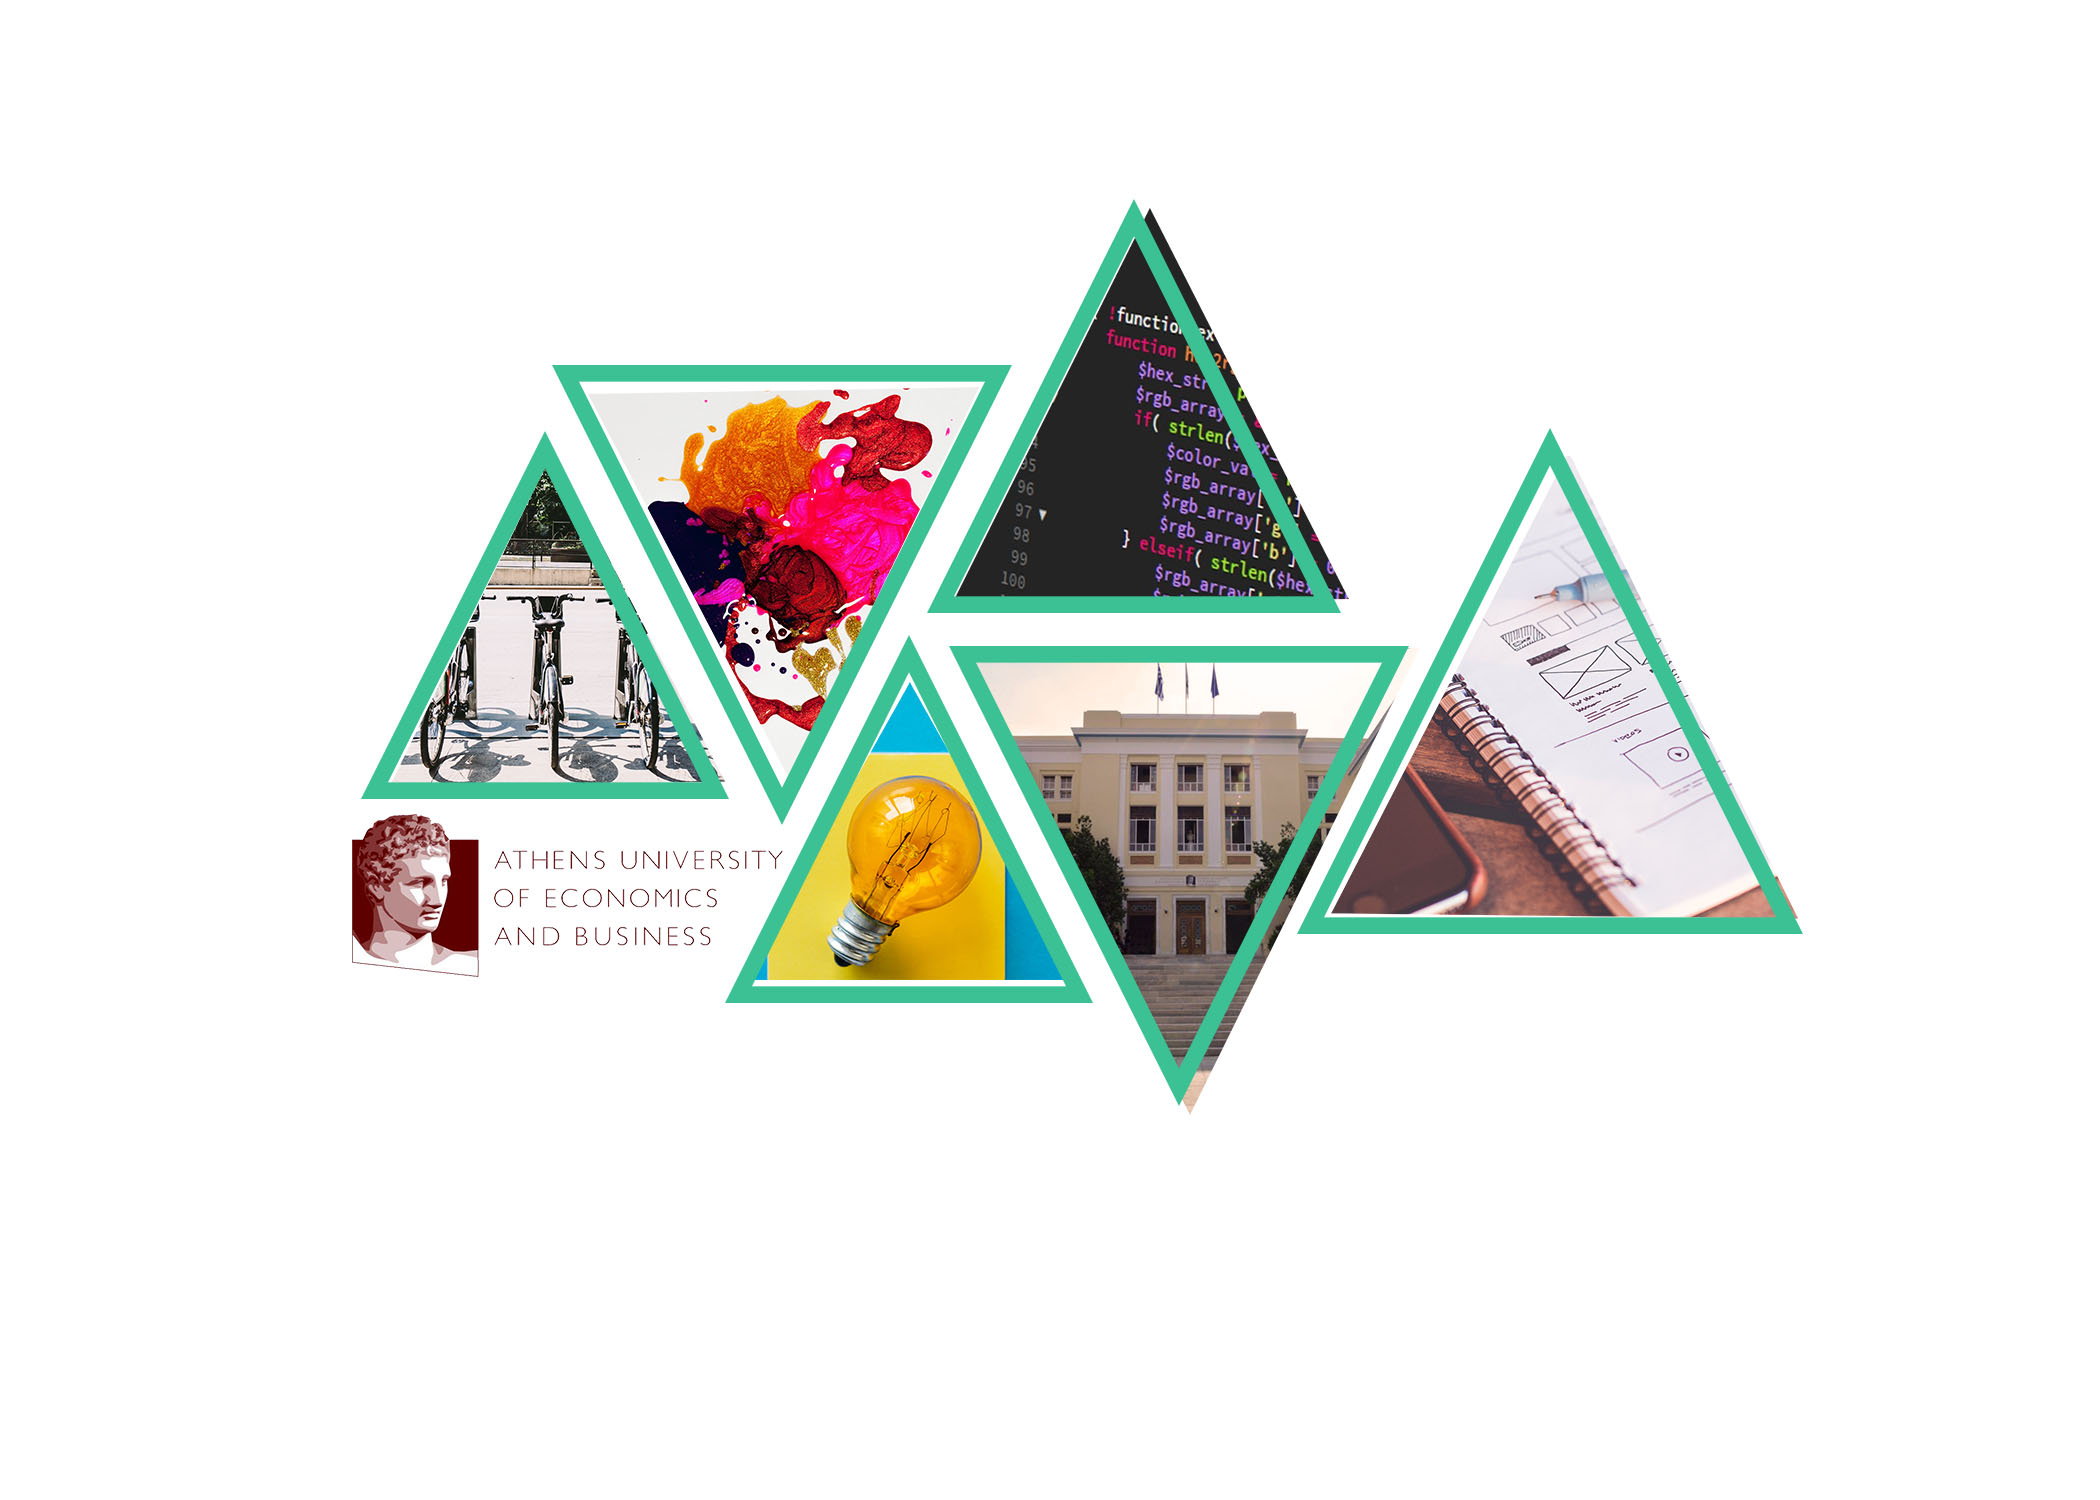
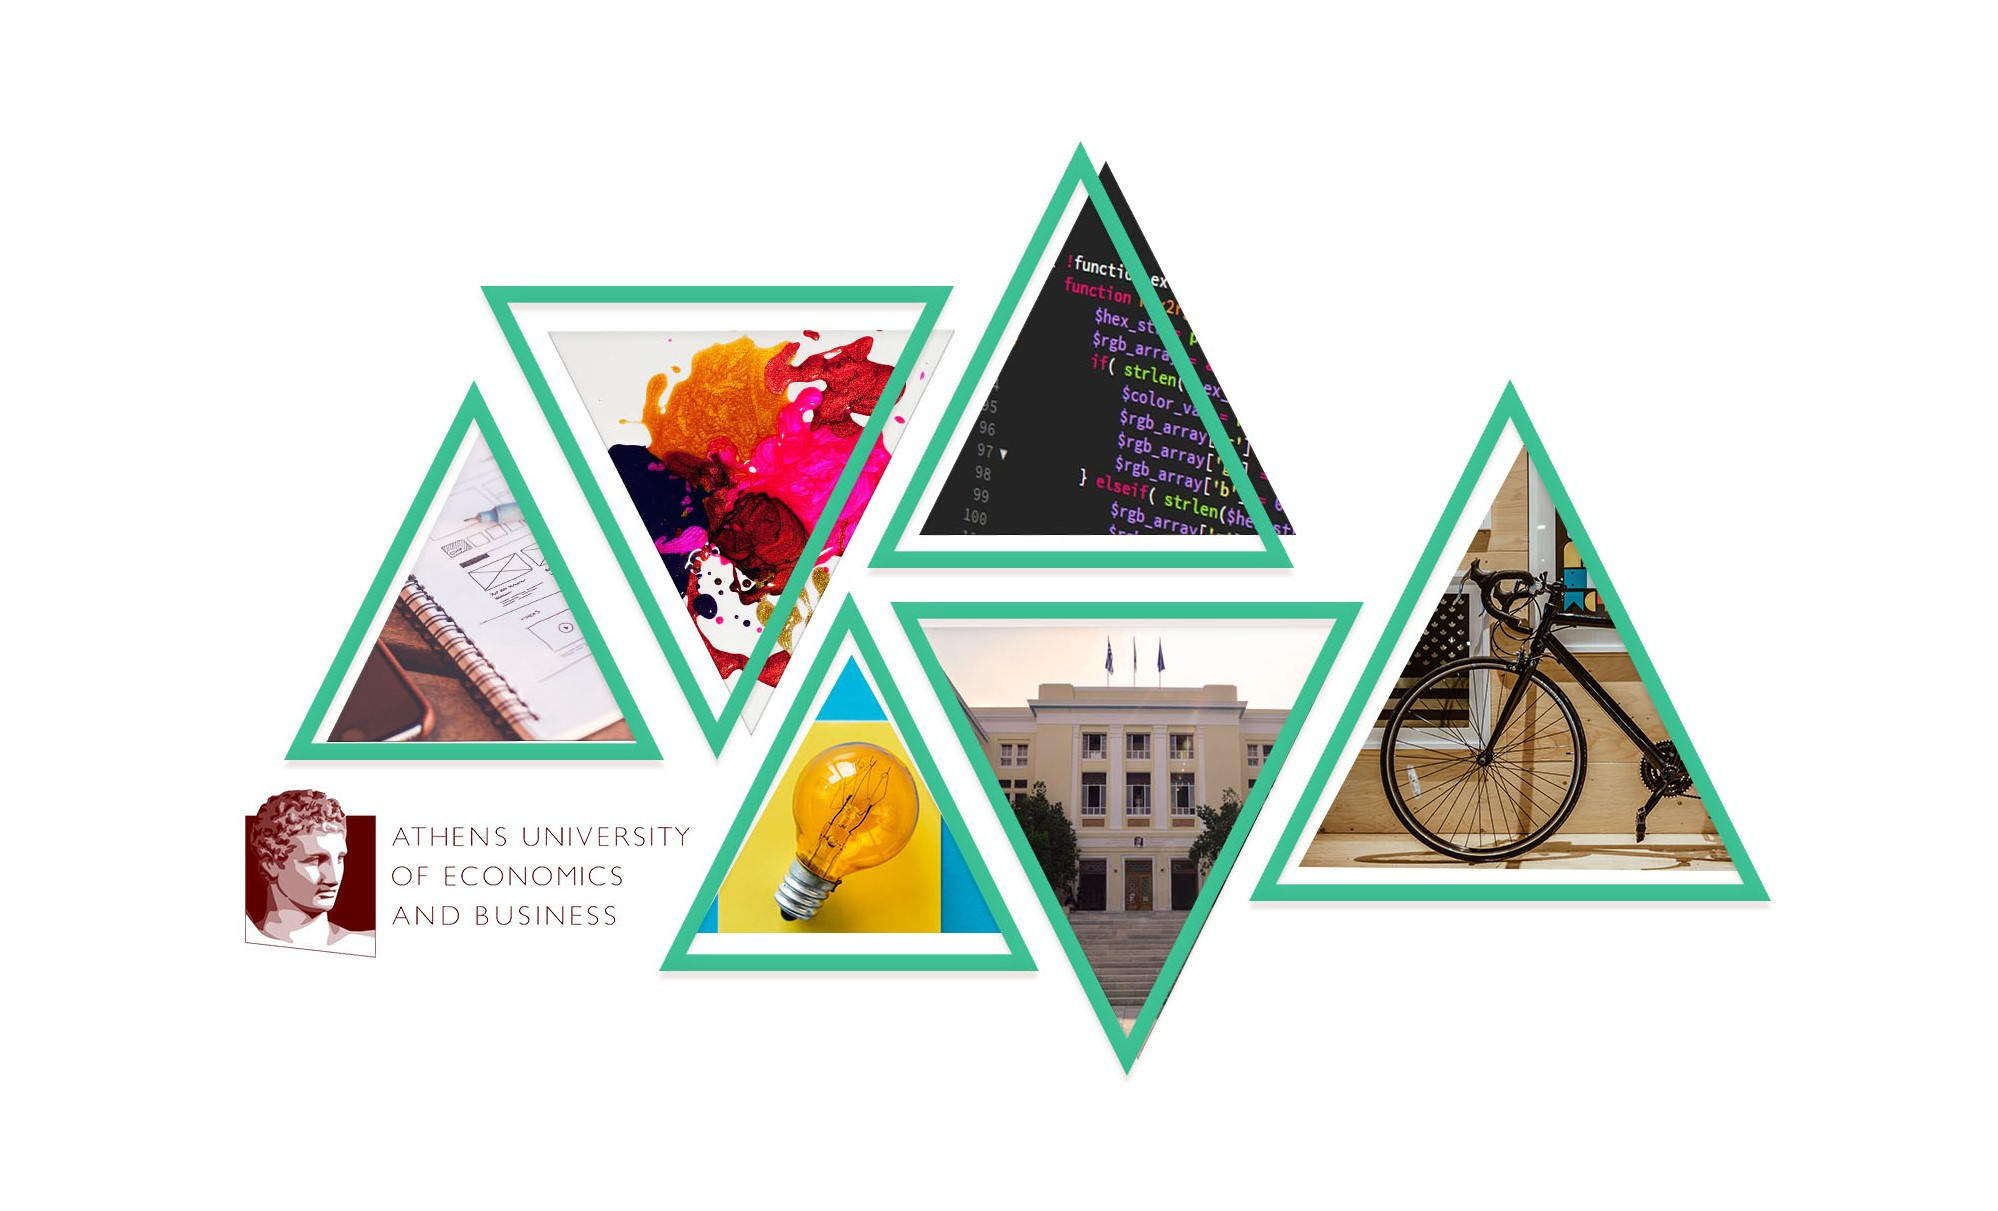
Second image for mobile

Changed region(s): [[0.1241, 0.1222, 0.8999, 0.886]]

diff --git a/index.html b/index.html
@@ -19,6 +19,25 @@
   <!-- CSS Just for demo purpose, don't include it in your project -->
   <link href="assets/demo/demo.css" rel="stylesheet" />
   <link href="https://fonts.googleapis.com/css?family=Comfortaa|Source+Sans+Pro" rel="stylesheet">
+  <style>
+  .bg {
+  /* The image used */
+  background-image: url('assets/img/background2.jpg');
+
+  /* Full height */
+  height: 100%;
+
+  /* Center and scale the image nicely */
+  background-position: center;
+  background-repeat: no-repeat;
+  background-size: contain;
+}
+@media screen and (max-width: 1024px) {
+  .bg {
+    background-image: url('assets/img/triangles_vertical.jpg');
+  }
+}
+  </style>
 </head>
 
 <body class="landing-page presentation-page sidebar-collapse">
@@ -50,7 +69,7 @@
     </div>
   </nav>
   <!-- End Navbar -->
-  <div class="page-header" data-parallax="true" style="background-image: url('assets/img/background3.jpg');">
+  <div class="bg page-header" data-parallax="true" style="">
     <div class="filter"></div>
     <div class="content-center">
       <div class="container">

diff --git a/assets/css/paper-kit.css b/assets/css/paper-kit.css
@@ -8824,14 +8824,16 @@ textarea.form-control {
 }
 
 .page-header {
-  background-color: #fff
-  background-position: center center;
+  background-color: #fff;
+  background-position: center;
   background-size: cover;
   min-height: 100vh;
-  max-height: 999px;
+  height: 100%;
   overflow: hidden;
   position: relative;
-  width: 100%;
+  max-width: 100%;
+  background-position: center;
+  background-repeat: no-repeat;
   z-index: 1;
 }
 
